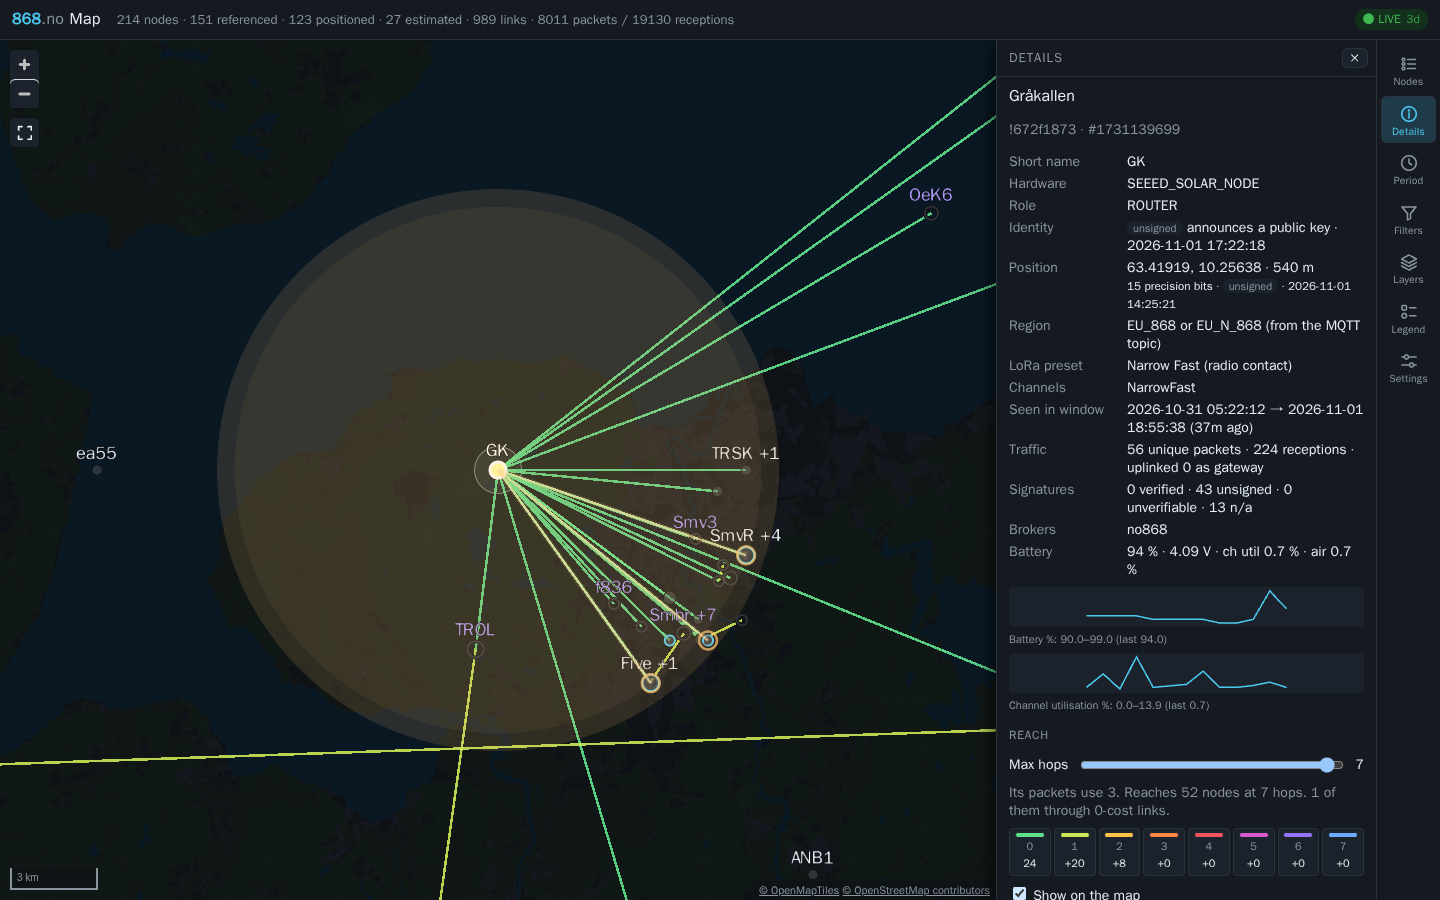
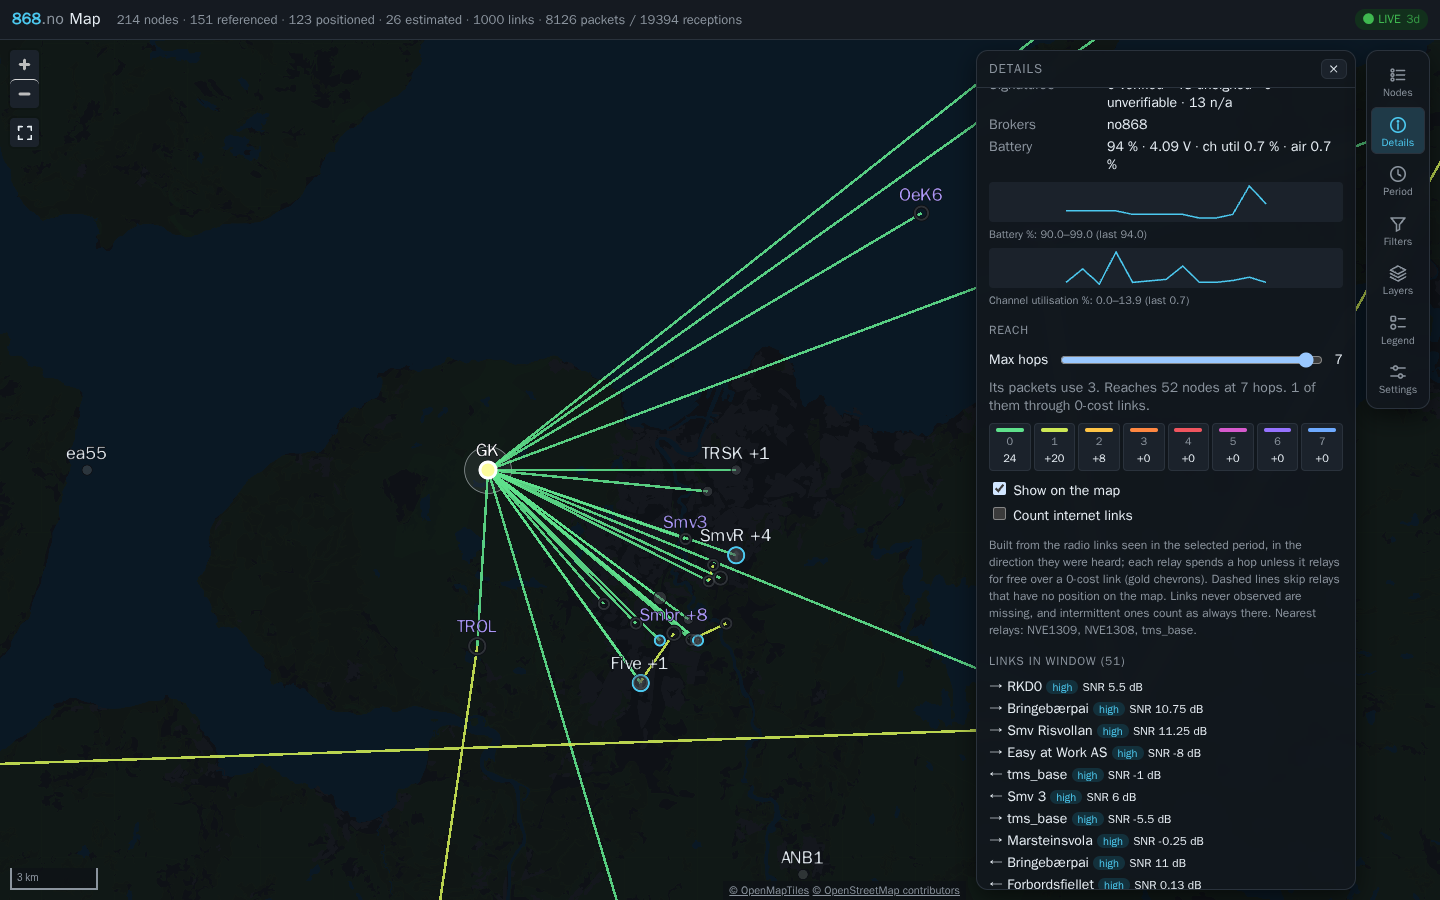
Float the tool rail and its panel over the map as islands
Rounded, inset cards with a shadow over an edge-to-edge map; the panel fits
its content and scrolls inside, and floats along the bottom on phones
(D-071).

diff --git a/frontend/src/index.css b/frontend/src/index.css
@@ -80,7 +80,7 @@ button[aria-pressed='true'], button[aria-selected='true'] { background: var(--pr
 .boot.error { color: var(--err); }
 
 /* overflow: hidden clips the collapsed time bar, which is translated below the viewport. */
-.app { position: relative; display: grid; grid-template-rows: auto 1fr; height: 100%; overflow: hidden; --rail: 64px; --dock: 380px; }
+.app { position: relative; display: grid; grid-template-rows: auto 1fr; height: 100%; overflow: hidden; --rail: 64px; --dock: 380px; --gap: 10px; --island-r: 12px; }
 .topbar { position: relative; z-index: 10; display: flex; align-items: center; gap: 16px; padding: 6px 12px; border-bottom: 1px solid var(--line); background: var(--panel); min-height: 40px; }
 .topbar h1 { font-size: 16px; margin: 0; letter-spacing: 0.02em; white-space: nowrap; }
 /* Wordmark: the band (868 MHz) in the accent colour, the domain muted. */
@@ -92,10 +92,11 @@ button[aria-pressed='true'], button[aria-selected='true'] { background: var(--pr
 .spinner { width: 12px; height: 12px; border: 2px solid var(--line); border-top-color: var(--accent); border-radius: 50%; animation: spin 0.8s linear infinite; }
 @keyframes spin { to { transform: rotate(360deg); } }
 
-.main { position: relative; display: grid; grid-template-columns: 1fr var(--rail); min-height: 0; }
-/* The tool rail (D-066): every control panel, in its own full-height column,
-   so neither the map nor the time bar sits beneath it. */
-.rail { grid-column: 2; display: flex; flex-direction: column; gap: 2px; padding: 6px 4px; border-left: 1px solid var(--line); background: var(--panel); z-index: 9; }
+.main { position: relative; display: grid; grid-template-columns: 1fr; min-height: 0; }
+/* The tool rail (D-066) and its panel float over the map as islands
+   (D-071): rounded cards inset from the edges, the map running beneath. */
+.rail { position: absolute; top: var(--gap); right: var(--gap); width: var(--rail); box-sizing: border-box; display: flex; flex-direction: column; gap: 2px; padding: 6px 4px;
+  border: 1px solid var(--line); border-radius: var(--island-r); background: var(--overlay-strong); backdrop-filter: blur(8px); box-shadow: 0 8px 24px var(--shadow); z-index: 9; }
 .rail-btn { position: relative; display: flex; flex-direction: column; align-items: center; gap: 3px; padding: 7px 2px 5px; border: 1px solid transparent; border-radius: 6px; background: none; color: var(--muted); }
 .rail-btn:hover { color: var(--text); background: var(--panel2); }
 .rail-btn[aria-pressed='true'] { color: var(--accent); background: var(--pressed); border-color: var(--line); }
@@ -103,14 +104,15 @@ button[aria-pressed='true'], button[aria-selected='true'] { background: var(--pr
 .rail-badge { position: absolute; top: 3px; right: 6px; min-width: 15px; height: 15px; padding: 0 4px; border-radius: 8px; background: var(--accent); color: var(--bg); font-size: 10px; font-weight: 700; line-height: 15px; text-align: center; }
 /* The open panel overlays the map beside the rail (no resize); map controls
    on the right move clear of it. */
-.dock { position: absolute; top: 0; right: var(--rail); bottom: 0; width: var(--dock); z-index: 7; border-left: 1px solid var(--line); background: var(--panel); box-shadow: -6px 0 18px var(--shadow); display: flex; flex-direction: column; min-height: 0; }
+.dock { position: absolute; top: var(--gap); right: calc(var(--rail) + 2 * var(--gap)); max-height: calc(100% - 2 * var(--gap)); width: var(--dock); z-index: 7; overflow: hidden;
+  border: 1px solid var(--line); border-radius: var(--island-r); background: var(--overlay-strong); backdrop-filter: blur(8px); box-shadow: 0 8px 24px var(--shadow); display: flex; flex-direction: column; min-height: 0; }
 .dock[hidden] { display: none; }
 .dock-head { display: flex; align-items: center; gap: 8px; padding: 8px 8px 8px 12px; border-bottom: 1px solid var(--line); }
 .dock-head h2 { flex: 1; margin: 0; font-size: 13px; text-transform: uppercase; letter-spacing: 0.07em; color: var(--muted); }
 .dock-head .close { position: static; }
-.dock-body { overflow: auto; min-height: 0; flex: 1; }
-.main:not(.panel-closed) .coords { right: calc(var(--dock) + 10px); }
-.main:not(.panel-closed) .attribution { right: var(--dock); }
+.dock-body { overflow: auto; min-height: 0; flex: 1 1 auto; } /* the island fits its content, scrolling past the bottom */
+.main:not(.panel-closed) .coords { right: calc(var(--rail) + var(--dock) + 4 * var(--gap)); }
+.main:not(.panel-closed) .attribution { right: calc(var(--rail) + var(--dock) + 3 * var(--gap)); }
 .filter-head { margin-top: 0; }
 .segmented { display: flex; border: 1px solid var(--line); border-radius: 6px; overflow: hidden; }
 .segmented label { position: relative; flex: 1; margin: 0; text-align: center; cursor: pointer; }
@@ -133,12 +135,12 @@ button[aria-pressed='true'], button[aria-selected='true'] { background: var(--pr
 .attribution a { color: var(--muted); }
 .coords { position: absolute; bottom: 28px; right: 10px; font: 12px ui-monospace, monospace; color: var(--muted); background: var(--overlay); padding: 2px 6px; border-radius: 4px; }
 .tooltip { position: absolute; pointer-events: none; background: var(--tooltip); border: 1px solid var(--line); padding: 4px 8px; border-radius: 4px; font-size: 12px; max-width: 320px; z-index: 5; }
-.banners { position: absolute; left: 50px; top: 10px; right: calc(var(--rail) + 10px); display: flex; flex-direction: column; gap: 6px; pointer-events: none; }
+.banners { position: absolute; left: 50px; top: 10px; right: calc(var(--rail) + 3 * var(--gap)); display: flex; flex-direction: column; gap: 6px; pointer-events: none; }
 .banner { pointer-events: auto; align-self: flex-start; background: var(--overlay-strong); border: 1px solid var(--line); border-left: 3px solid var(--accent); padding: 6px 10px; border-radius: 4px; font-size: 13px; }
 .banner.error { border-left-color: var(--err); }
 .banner.hist { border-left-color: var(--orange); }
 
-.main:not(.panel-closed) .banners { right: calc(var(--rail) + var(--dock) + 10px); }
+.main:not(.panel-closed) .banners { right: calc(var(--rail) + var(--dock) + 4 * var(--gap)); }
 .panel { padding: 10px 12px; position: relative; }
 .panel h2 { font-size: 16px; margin: 0 0 4px; padding-right: 24px; }
 .panel h3 { font-size: 12px; text-transform: uppercase; letter-spacing: 0.06em; color: var(--muted); margin: 14px 0 6px; }
@@ -249,13 +251,14 @@ table.hear th, table.hear td { text-align: left; padding: 2px 4px; border-bottom
 .maplibregl-ctrl-group button .maplibregl-ctrl-icon { filter: var(--ctrl-icon-filter); }
 .maplibregl-ctrl-scale { background: var(--overlay) !important; color: var(--muted) !important; border-color: var(--muted) !important; }
 
-/* Mobile: map fills the screen; the panel becomes a bottom sheet beside the rail. */
+/* Mobile: map fills the screen; the panel floats as a card along the bottom, beside the rail. */
 @media (max-width: 820px) {
   /* Bottom sheet over the map. */
-  .dock { top: auto; left: 0; width: auto; height: 50vh; border-left: none; border-top: 1px solid var(--line); box-shadow: 0 -6px 18px var(--shadow); }
-  .main:not(.panel-closed) .coords { right: 10px; }
-  .main:not(.panel-closed) .attribution { right: 0; bottom: 50vh; }
-  .banners, .main:not(.panel-closed) .banners { right: calc(var(--rail) + 10px); left: 10px; }
+  .app { --gap: 8px; }
+  .dock { top: auto; bottom: var(--gap); left: var(--gap); width: auto; max-height: 50vh; }
+  .main:not(.panel-closed) .coords { right: 10px; bottom: calc(50vh + 2 * var(--gap) + 28px); }
+  .main:not(.panel-closed) .attribution { right: 0; bottom: calc(50vh + 2 * var(--gap)); }
+  .banners, .main:not(.panel-closed) .banners { right: calc(var(--rail) + 3 * var(--gap)); left: 10px; }
   .counters { display: none; }
 }
 /* Phones: a slimmer rail, icons only (labels stay as accessible names and tooltips). */

diff --git a/frontend/src/map/camera.ts b/frontend/src/map/camera.ts
@@ -12,7 +12,8 @@ function covered(container: HTMLElement | null): { right: number; bottom: number
   const panel = document.getElementById('dock')
   if (!panel || panel.hidden || !container) return { right: 0, bottom: 0 }
   const a = container.getBoundingClientRect(), b = panel.getBoundingClientRect()
-  return b.top <= a.top + 1 ? { right: Math.max(0, a.right - b.left), bottom: 0 } : { right: 0, bottom: Math.max(0, a.bottom - b.top) }
+  // The side panel is narrow; the phone's bottom card spans most of the width.
+  return b.width < a.width * 0.6 ? { right: Math.max(0, a.right - b.left), bottom: 0 } : { right: 0, bottom: Math.max(0, a.bottom - b.top) }
 }
 
 export function useCamera(

diff --git a/docs/decisions.md b/docs/decisions.md
@@ -558,3 +558,10 @@ Operator idea: when a node is selected, simulate its reach at different hop limi
 
 Operator decision: receptions we cannot decrypt are not stored, not even their unencrypted headers (sender, destination, gateway, channel name, hops, signal). Ingest keeps rejecting them as `no_key`. Only channels with a configured key, or the public default key (D-065), are stored. Channels with private keys are seen only as the primary channel names nodes report about themselves in map reports (D-064).
 
+## D-071 The rail and its panel as floating islands (2026-11-01)
+
+Operator request: make the right-hand sidebar a floating island over the map.
+- The rail and the open panel are rounded cards inset 10 px from the map's edges (8 px on phones), with a soft shadow and a translucent, blurred background. The map runs edge to edge beneath them; the rail no longer takes a column.
+- The rail is as tall as its buttons. The panel sits beside it, as tall as its content up to the bottom margin, scrolling inside past that. On phones it floats along the bottom, beside the rail, up to half the screen.
+- Banners, the coordinate readout and the credits stay clear of both. The camera keeps framed content clear of the panel, now telling the side panel from the bottom card by width.
+
